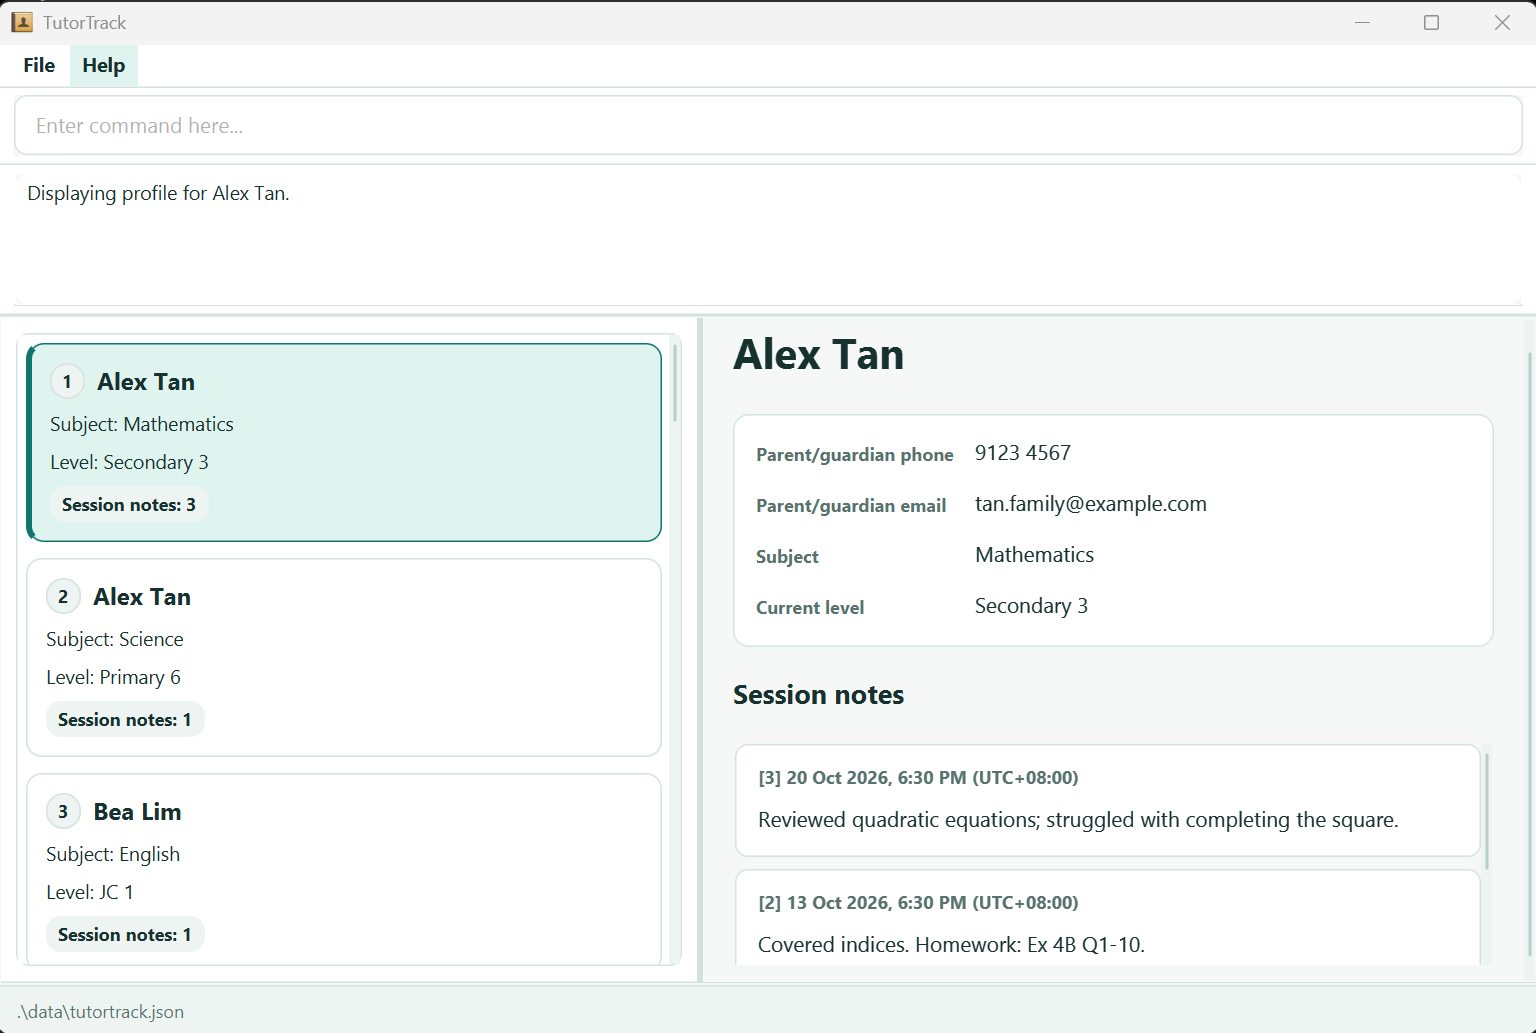
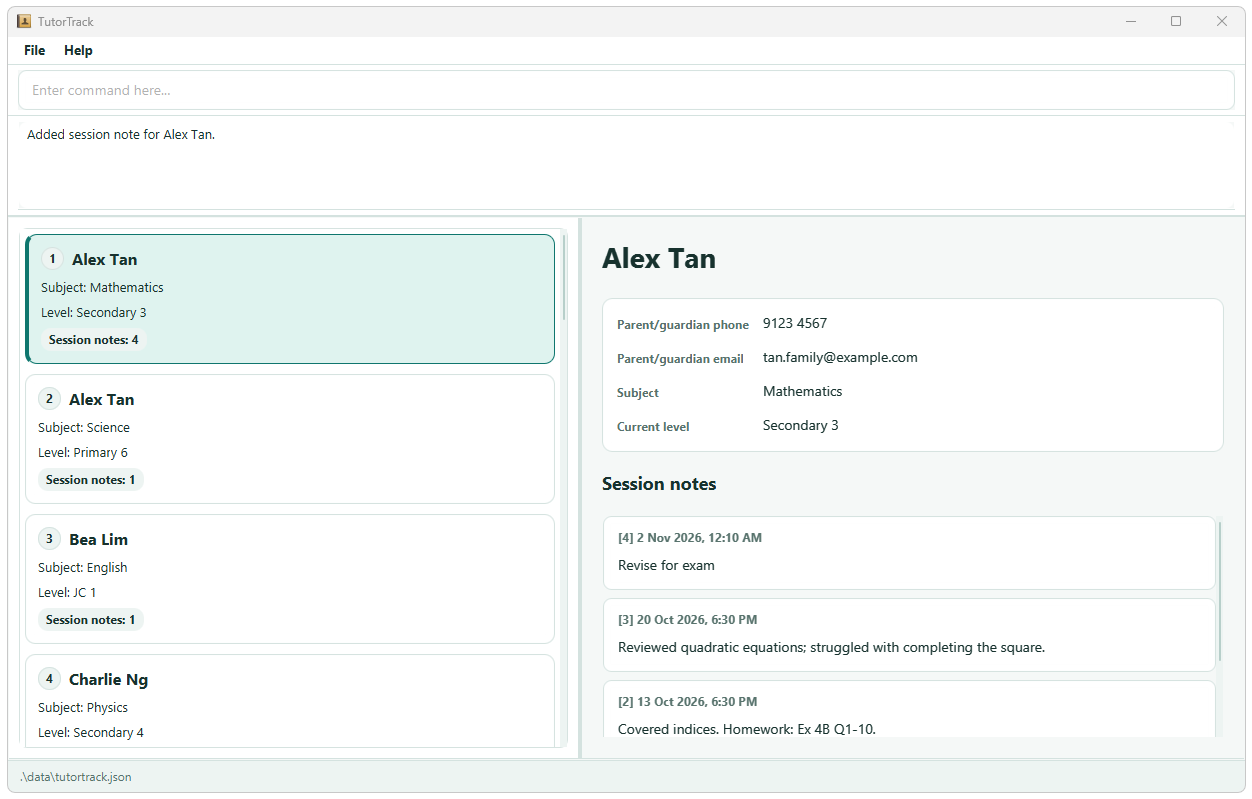
Add UI screenshots to the User Guide
Replace the outdated main window and help window screenshots, and
illustrate each core command, the error messages, the session-note
history, and the data-file recovery dialog.

Changed region(s): [[0.0, 0.2703, 1.0, 1.0], [0.0, 0.0, 1.0, 0.2103]]

diff --git a/docs/UserGuide.md b/docs/UserGuide.md
@@ -22,8 +22,10 @@ TutorTrack is a **desktop application for private tutors managing a student rost
    Choose a folder that you can write to, such as one in your user folder. TutorTrack saves its data file, preferences and log files in this folder, so it cannot save anything if the folder is write-protected (see [Known issues](#known-issues)).
 
 1. Open a terminal, `cd` to the folder containing the JAR file, and run `java -jar tutortrack.jar`.<br>
-   A GUI similar to the one below should appear in a few seconds. On a first launch, the student roster is empty.<br>
-   ![Ui](images/Ui.png)
+   A GUI similar to the one below should appear in a few seconds. On a first launch, the student roster is empty and no student profile is open.<br>
+   ![TutorTrack on a first launch, with an empty roster and no profile open](images/UiEmptyRoster.png)<br>
+   After you add students, the roster lists them on the left, and the profile of the student you open appears on the right with their session notes, newest first.<br>
+   ![TutorTrack with a roster of students and one student's profile open](images/Ui.png)
 
 1. Type a command in the command box and press Enter to execute it. For example, type **`help`** and press Enter to open the help window.<br>
    Some example commands you can try:
@@ -85,18 +87,20 @@ TutorTrack keeps the latest 100 non-blank commands from the current app session,
 
 When a command cannot run, TutorTrack names the specific problem and does not change the roster, session notes, open profile, or saved data. Recall the command with `Up`, correct it, and press `Enter` again.
 
-* **Missing or extra parts:** if a required part such as an index, `nt/`, or `n/NAME` is missing, an unknown or repeated parameter is entered, text appears before the first parameter, or more values are entered than the command takes, the error ends with a `Format:` line showing the correct command and an `Example:` line you can adapt. For example, `view 1 2` shows `view takes only one INDEX.` followed by `Format: view INDEX` and `Example: view 1`.
+* **Missing or extra parts:** if a required part such as an index, `nt/`, or `n/NAME` is missing, an unknown or repeated parameter is entered, text appears before the first parameter, or more values are entered than the command takes, the error ends with a `Format:` line showing the correct command and an `Example:` line you can adapt. For example, `view 1 2` shows `view takes only one INDEX.` followed by `Format: view INDEX` and `Example: view 1`. Similarly, an `add` command without `n/NAME` shows:<br>
+  ![Error for an add command without n/NAME, followed by the Format and Example lines](images/UiCommandError1.png)
 * **Invalid value:** a value that breaks a rule, such as a phone number that is too short, shows only that rule. An index such as `0`, `-1`, or `abc` shows `INDEX must be a positive whole number, e.g. 1.` A number too large to be any index, such as `99999999999`, is reported as too large.
 * **Index outside the roster:** the error gives the valid range, for example `Student index [3] is outside the roster. Enter a student index from 1 to 2.` If the roster is empty, TutorTrack asks you to add a student first.
 * **Note number outside the history:** `edit note` and `delete note` give the valid note-number range for that student.
-* **Unknown command:** Command words must be typed in lowercase. A command word in another case, such as `ADD` or `Delete`, shows `Command words must be typed in lowercase.` followed by the lowercase word to use, for example `Did you mean add?`. A misspelled command such as `veiw 1` is named in the error together with the list of available commands.
+* **Unknown command:** Command words must be typed in lowercase. A command word in another case, such as `ADD` or `Delete`, shows `Command words must be typed in lowercase.` followed by the lowercase word to use, for example `Did you mean add?`. A misspelled command such as `veiw 1` is named in the error together with the list of available commands.<br>
+  ![Error for DELETE 1 asking the user to type the command word in lowercase](images/UiCommandError2.png)
 * **Mistyped keyword or prefix:** a mistyped `note`, `/confirm`, or parameter prefix is named in the error. Each command's section below describes these errors.
 
 ### Viewing help: `help`
 
 Shows a message explaining how to access the help page.
 
-![help message](images/helpMessage.png)
+![Help window showing the user guide link and a Copy URL button](images/helpMessage.png)
 
 Format: `help`
 
@@ -124,6 +128,10 @@ Examples:
 * `add n/Alicia Lim p/+65 9123 4567 e/mrs.lim@example.com sub/Mathematics l/Secondary 3`
 * `add sub/English Literature l/JC 1 n/Dev Patel p/91234567`
 
+After the first example, the result display confirms the new student's name, subject, and current level, and the student appears in the roster:
+
+![Roster showing the newly added student Alicia Lim with 0 session notes](images/UiAddStudent.png)
+
 ### Editing a student: `edit`
 
 Edits one or more details for an existing student without deleting the student or their session notes.
@@ -144,6 +152,10 @@ Examples:
 * `edit 3 n/Devika Patel sub/English Literature`
 
 A successful edit reports the student's updated name, subject, and current level, opens their updated profile, highlights their roster card, and saves the change. TutorTrack rejects an edit that would give the student the same normalized name and parent phone as another student.
+
+For example, after `edit 1 l/Secondary 4`, the student's updated profile opens and their roster card is highlighted:
+
+![Alicia Lim's profile open after the level was edited to Secondary 4, with the roster card highlighted](images/UiEditStudent.png)
 
 Invalid indices, missing edit fields, repeated or obsolete AddressBook parameters, and invalid values leave the student, session notes, open profile, and saved data unchanged. See [Fixing command errors](#fixing-command-errors) for the messages. If saving fails, TutorTrack restores the complete original record.
 
@@ -179,6 +191,10 @@ Examples:
 * `note 1 nt/Reviewed factorisation; revise negative coefficients next lesson.`
 * `note 3 nt/Completed past-year paper 2 (scored 34/40).`
 
+When you add a student's first session note, their profile shows it as `[1]` with its recorded date and time, and their roster card shows one session note:
+
+![Alicia Lim's profile showing the new session note 1 and a session-note count of 1](images/UiAddNote.png)
+
 If the index is missing, not a positive whole number, or larger than the number of students in the roster, or if the note is empty, too long, or not on one line, TutorTrack shows an error and does not add the note. See [Fixing command errors](#fixing-command-errors) for the messages.
 
 ### Editing a session note: `edit note`
@@ -208,6 +224,10 @@ Session notes are shown newest first with the date and time they were recorded, 
 
 Each note also has a number in square brackets. The oldest note is `[1]`, and each newer note has the next number, so the newest note appears at the top with the largest number. These numbers are selectors for the current display; they are not saved with the notes and are reassigned consecutively after a deletion.
 
+In the part of a note history below, notes run from newest to oldest with their recorded date and time. Note `[8]` was edited, so its header also shows the time of its latest edit, and its longer text wraps within the card:
+
+![Part of a session-note history showing notes 9 to 6 newest first, with note 8 marked as edited](images/UiViewSessionNotes.png)
+
 Long profile fields and notes wrap within the panel, and the note history can be scrolled. Press `PageDown` or `PageUp` in the command box to scroll the profile and notes by one page (in a short window, the profile scrolls first so the notes come into view) without losing what you have typed. Profile text is read-only, but you can select profile values, session-note headers, and note text and copy them with `Ctrl+C` on Windows/Linux or `Cmd+C` on macOS.
 
 The roster card belonging to the open profile remains highlighted even if the roster is refreshed or its indices change. Hovering over or clicking a card does not add a highlight or open another profile. The open profile refreshes after each successful command; a successful `edit`, `note`, or `edit note` opens the target student's profile even when another profile was previously open. The profile closes, together with its highlight, if that student is deleted; a failed command leaves both unchanged.
@@ -217,6 +237,10 @@ Format: `view INDEX`
 * `INDEX` must be the positive whole number of a student in the displayed roster.
 
 Example: `view 2`
+
+The result of `view 2` below shows a student without an email or session notes, so the profile shows `Not provided` and `No session notes yet`:
+
+![Dev Patel's profile open beside the roster, with the email shown as Not provided and no session notes](images/UiViewStudent.png)
 
 If the index is missing, not a positive whole number, or outside the roster, TutorTrack shows an error and keeps the current display unchanged. See [Fixing command errors](#fixing-command-errors) for the messages.
 
@@ -239,8 +263,11 @@ Confirmation format: `delete INDEX /confirm`
 Example:
 
 1. Enter `delete 2`.
-1. Check that the target student's profile is open and their roster card is highlighted, then verify the name and session-note count in the prompt.
-1. Enter the displayed `delete 2 /confirm` as the next correctly formatted command to delete that student, or enter another correctly formatted command to cancel.
+1. Check that the target student's profile is open and their roster card is highlighted, then verify the name and session-note count in the prompt.<br>
+   ![Deletion preview for Dev Patel, showing the confirmation prompt with the student's profile open and roster card highlighted](images/UiDeleteStudent1.png)
+1. Enter the displayed `delete 2 /confirm` as the next correctly formatted command to delete that student, or enter another correctly formatted command to cancel.<br>
+   After the deletion is confirmed, the student is removed from the roster and their profile closes:<br>
+   ![Roster after Dev Patel was deleted, with no student profile open](images/UiDeleteStudent2.png)
 
 If the index is missing, invalid, contains more than one value, or is larger than the roster, TutorTrack shows an error and does not change the roster, session notes, open profile, or saved data. See [Fixing command errors](#fixing-command-errors) for the messages. If TutorTrack cannot save a confirmed deletion, it restores the student and session notes and clears the pending deletion.
 
@@ -267,6 +294,14 @@ Example:
 1. Enter `delete note 1 3`.
 1. Check the open profile and highlighted note, then check the student name and note number in the prompt.
 1. Enter the displayed `delete note 1 3 /confirm` as the next correctly formatted command to delete that note, or enter another correctly formatted command to cancel.
+
+For example, the preview for `delete note 1 1` highlights note `[1]` in red:
+
+![Deletion preview for session note 1 of Alicia Lim, with the targeted note highlighted in red](images/UiDeleteNote1.png)
+
+After `delete note 1 1 /confirm`, the remaining note is renumbered from `[2]` to `[1]`:
+
+![Alicia Lim's profile after the deletion, with the remaining note renumbered to 1](images/UiDeleteNote2.png)
 
 If either number is missing or not a positive whole number, extra arguments are supplied, the student does not exist, the student has no notes, or the note number is outside the displayed range, TutorTrack shows a specific error and leaves stored data unchanged. An input that TutorTrack cannot parse keeps any pending preview and highlight active. An input that parses but fails validation cancels the preview and clears the highlight while the profile stays open.
 
@@ -307,6 +342,10 @@ Each student's session notes are in that student's `sessionNotes` list, for exam
 <div markdown="span" class="alert alert-warning">:exclamation: **Caution:**
 If an edit makes the data file invalid, such as mistyping a top-level field name, TutorTrack starts with an empty roster and shows a message saying that it could not load your data file. It also tries to keep a copy of the file in the `data` folder, with a name such as `tutortrack.json.backup-123456.bak`, and the message gives the copy's location if it succeeds. Correct the original file and restart TutorTrack **before** running any command that changes data, because such a command replaces the original file with the empty roster. Back up the data file before editing it.
 </div>
+
+TutorTrack shows the message below when it cannot load the data file:
+
+![Data recovery dialog saying TutorTrack could not load the data file and giving the location of the backup copy](images/UiDataError.png)
 
 ### Archiving students `[Coming soon]`
 
